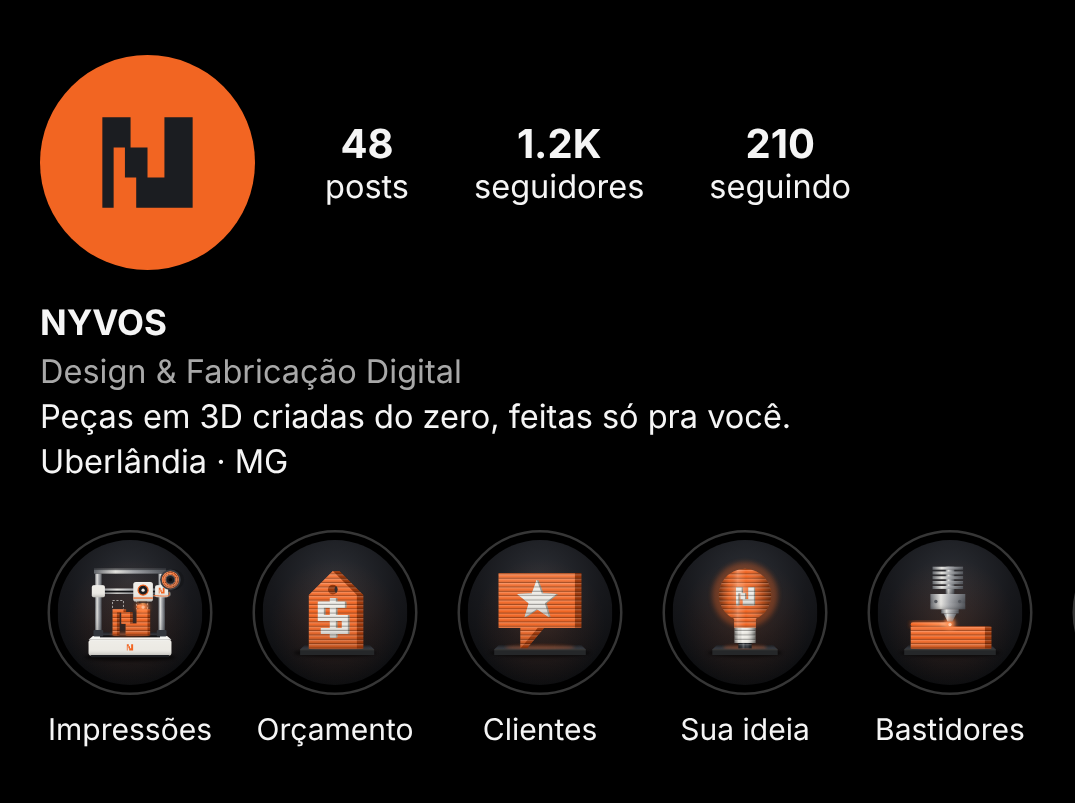
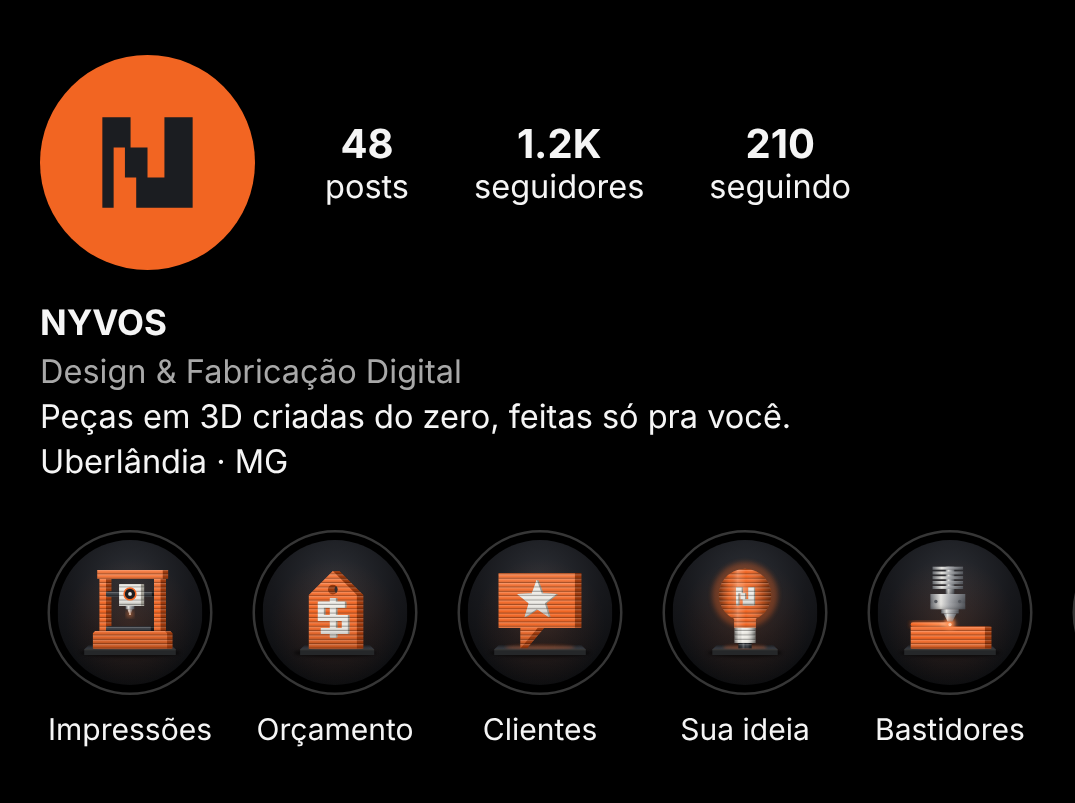
Destaque Impressões: só a impressora, minimalista, no estilo dos outros destaques
Quadro (base, colunas, travessa) impresso em camadas laranja sobre a mesa,
mesa e pórtico em carbono, cabeçote mineral com a ventoinha de anel laranja
do modelo 3D do site. Sem a peça sendo impressa, bobina ou tubo.

Claude-Session: https://claude.ai/code/session_011184PcH9G9ZqwwvJGvg2fK

Changed region(s): [[0.0614, 0.6849, 0.1842, 0.8406]]

diff --git a/assets/social/instagram/fonte/glifos.js b/assets/social/instagram/fonte/glifos.js
@@ -2,7 +2,7 @@
 // Cada destaque é uma peça impressa de verdade, fotografada no estúdio da marca:
 // filamento laranja, mineral e carbono (a paleta da NYVOS), camadas visíveis como
 // cordões de FDM com luz e sombra, espessura real e a mesa de impressão embaixo.
-// Onde há processo (Impressões, Bastidores) a camada de cima ainda está quente.
+// Onde há processo (Bastidores) a camada de cima ainda está quente.
 const { SIMBOLO } = require("./art.js");
 
 const T = { luz: "#FF8A4C", base: "#F26522", esc: "#B8410E", min: "#F3F2EE", carbono: "#1B1D21", grafite: "#252729" };
@@ -126,47 +126,21 @@ function hotend() {
     ${metal("M40 45H56V49H40Z")}${metal("M42 49H54L50.2 56.2H45.8Z")}`;
 }
 
-// a impressora do site (hero 3D) em versão minimalista, de frente: base mineral, mesa PEI,
-// colunas de alumínio, pórtico, cabeçote com anel e faixa laranja, bobina laranja.
-// Ela imprime o N Estrato: embaixo já é peça em camadas, em cima ainda é o modelo tracejado.
-const N_IMPRESSO = reposiciona(SIMBOLO, 1 / 3, 32, 37);
-const N_ETIQUETA = reposiciona(SIMBOLO, 0.055, 74.4, 25.4);
-const N_BASE = reposiciona(SIMBOLO, 0.06, 45.1, 77);
+// a impressora do site (hero 3D) reduzida ao essencial e impressa como as outras peças:
+// quadro em camadas laranja (base, colunas, travessa), mesa e pórtico em carbono,
+// cabeçote mineral com a ventoinha de anel laranja, como no modelo 3D.
 function impressora() {
-  const MESA_N = 69, CORTE = 45, bico = [60, CORTE - P];
-  const caixa = (x, y, w, h, r, mat) =>
-    `<rect x="${x}" y="${y}" width="${w}" height="${h}" rx="${r}" fill="${mat.frente}"/><rect x="${x}" y="${y}" width="${w}" height="${h}" rx="${r}" fill="url(#vole)"/>` +
-    `<rect x="${x + r}" y="${y}" width="${w - 2 * r}" height=".5" fill="#fff" opacity=".5"/>`;
-  return `<ellipse cx="48" cy="89" rx="42" ry="3.6" fill="#000" opacity=".6" filter="url(#sombra)"/>
-    <path d="M14 69.5H82L86 73H10Z" fill="#F7F6F2"/>
-    ${caixa(10, 73, 76, 14.5, 2.6, MAT.mineral)}
-    <rect x="12" y="87" width="72" height="2" rx="1" fill="${T.carbono}"/>
-    <path d="${N_BASE}" fill="${T.base}"/>
-    <path d="M24 66H72L75.5 ${MESA_N}H20.5Z" fill="url(#tampo)"/>
-    <rect x="20.5" y="${MESA_N}" width="55" height="1.8" fill="#111214"/>
-    <ellipse cx="48" cy="${MESA_N - 1}" rx="18" ry="2" fill="${T.base}" opacity=".45" filter="url(#sombra)"/>
-    ${metal("M16 12H22V68H16Z")}${metal("M74 12H80V68H74Z")}
-    <rect x="14.5" y="64" width="9" height="6" rx="1" fill="${MAT.carbono.frente}"/><rect x="72.5" y="64" width="9" height="6" rx="1" fill="${MAT.carbono.frente}"/>
-    ${metal("M15 8H81V12.5H15Z")}<rect x="15" y="8" width="66" height="1.2" fill="${T.carbono}" opacity=".6"/>
-    <clipPath id="vb"><rect x="0" y="${CORTE}" width="96" height="${MESA_N - CORTE}"/></clipPath>
-    <clipPath id="vc"><rect x="0" y="0" width="96" height="${CORTE}"/></clipPath>
-    <g clip-path="url(#vb)">${ext(N_IMPRESSO, MAT.laranja, { prof: 2.5 })}</g>
-    <path d="${N_IMPRESSO}" clip-path="url(#vc)" fill="none" stroke="${T.min}" stroke-width=".8" stroke-dasharray="2 1.5" opacity=".7"/>
-    ${quente(54, bico[0] + 1, CORTE - P)}
-    ${metal("M18 26H78V31H18Z")}<rect x="22" y="28" width="52" height="1.6" fill="#111214"/>
-    ${caixa(13, 23, 12, 11, 1.6, MAT.mineral)}${caixa(71, 23, 12, 11, 1.6, MAT.mineral)}
-    <path d="${N_ETIQUETA}" fill="${T.base}"/>
-    <path d="M84 30C86 34 80 33 70 32.5" fill="none" stroke="#F4F3EF" stroke-opacity=".35" stroke-width="2.2" stroke-linecap="round"/>
-    <path d="M84 30C86 34 80 33 70 32.5" fill="none" stroke="${T.base}" stroke-width=".8" stroke-linecap="round"/>
-    ${carretel(85, 18, 9.5, MAT.laranja, "fp")}
-    <rect x="52.5" y="20" width="15" height="18" rx="2.4" fill="#000" opacity=".35" transform="translate(1 .8)"/>
-    ${caixa(51, 20, 18, 18, 2.4, MAT.mineral)}
-    <circle cx="60" cy="27.5" r="4.6" fill="${T.carbono}"/><circle cx="60" cy="27.5" r="4.6" fill="none" stroke="${T.base}" stroke-width="1.1"/>
-    <circle cx="60" cy="27.5" r="1.5" fill="${MAT.mineral.frente}"/>
-    <rect x="51" y="34.2" width="18" height="1.1" fill="${T.base}"/>
-    <rect x="56" y="38" width="8" height="1.6" fill="${T.carbono}"/>
-    <path d="M57.6 39.6H62.4L${bico[0] + .7} ${bico[1]}H${bico[0] - .7}Z" fill="url(#latao)"/>
-    <circle cx="${bico[0]}" cy="${bico[1] + 1}" r="2.6" fill="${T.luz}" filter="url(#brilho)"/>`;
+  const quadro = "M14 81H82V67L80 65H76V17H78V9H18V17H20V65H16L14 67Z M26 65V17H70V65Z";
+  return mesa(6, 90) +
+    ext(quadro, MAT.laranja, { evenodd: true, prof: 5 }) +
+    ext("M26 61H67V65H26Z", MAT.carbono, { prof: 3 }) +
+    ext("M26 29H68V33H26Z", MAT.carbono, { prof: 2 }) +
+    ext("M38 22H58V42H38Z", MAT.mineral, { prof: 3 }) +
+    `<circle cx="48" cy="31" r="5.4" fill="${T.carbono}"/>
+    <circle cx="48" cy="31" r="5.4" fill="none" stroke="${T.base}" stroke-width="1.4"/>
+    <circle cx="48" cy="31" r="1.7" fill="${MAT.mineral.frente}"/>
+    ${metal("M44 42H52V45H44Z")}${metal("M45.5 45H50.5L48.8 49H47.2Z")}
+    <circle cx="48" cy="49.4" r="2.2" fill="${T.luz}" filter="url(#brilho)"/><circle cx="48" cy="49.4" r=".8" fill="#FFE2CC"/>`;
 }
 
 function carretel(cx, cy, r, mat, id) {
@@ -249,11 +223,7 @@ function defs() {
     <linearGradient id="metal" x1="0" y1="0" x2="1" y2="0">
       <stop offset="0" stop-color="#5E6167"/><stop offset=".3" stop-color="#E4E3DF"/>
       <stop offset=".55" stop-color="#A3A5A9"/><stop offset="1" stop-color="#4B4E54"/></linearGradient>
-    <linearGradient id="metalesc" x1="0" y1="0" x2="1" y2="0">
-      <stop offset="0" stop-color="#26282D"/><stop offset=".3" stop-color="#4A4D54"/>
-      <stop offset=".6" stop-color="#2F3237"/><stop offset="1" stop-color="#1E2024"/></linearGradient>
-    <linearGradient id="latao" x1="0" y1="0" x2="1" y2="0">
-      <stop offset="0" stop-color="#7A5226"/><stop offset=".4" stop-color="#E2AE72"/><stop offset="1" stop-color="#8E6230"/></linearGradient>
+    
     <linearGradient id="quente" x1="0" y1="0" x2="1" y2="0">
       <stop offset="0" stop-color="${T.base}"/><stop offset=".7" stop-color="${T.luz}"/><stop offset="1" stop-color="#FFC9A6"/></linearGradient>
     <radialGradient id="acesa"><stop offset="0" stop-color="#FFE6D4" stop-opacity=".55"/><stop offset=".6" stop-color="${T.luz}" stop-opacity=".15"/>
